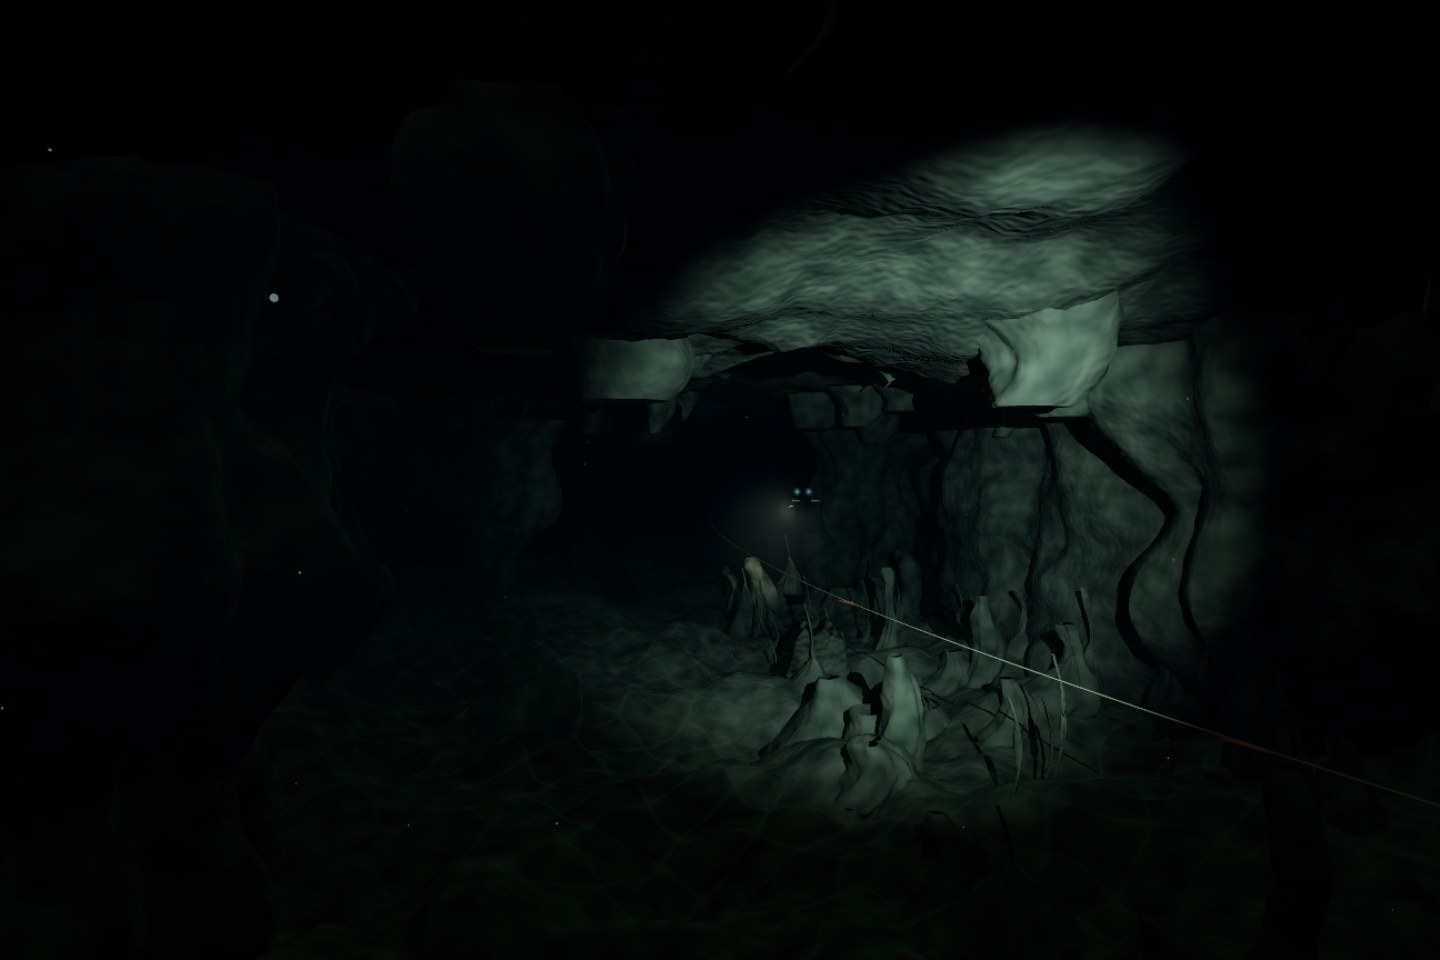
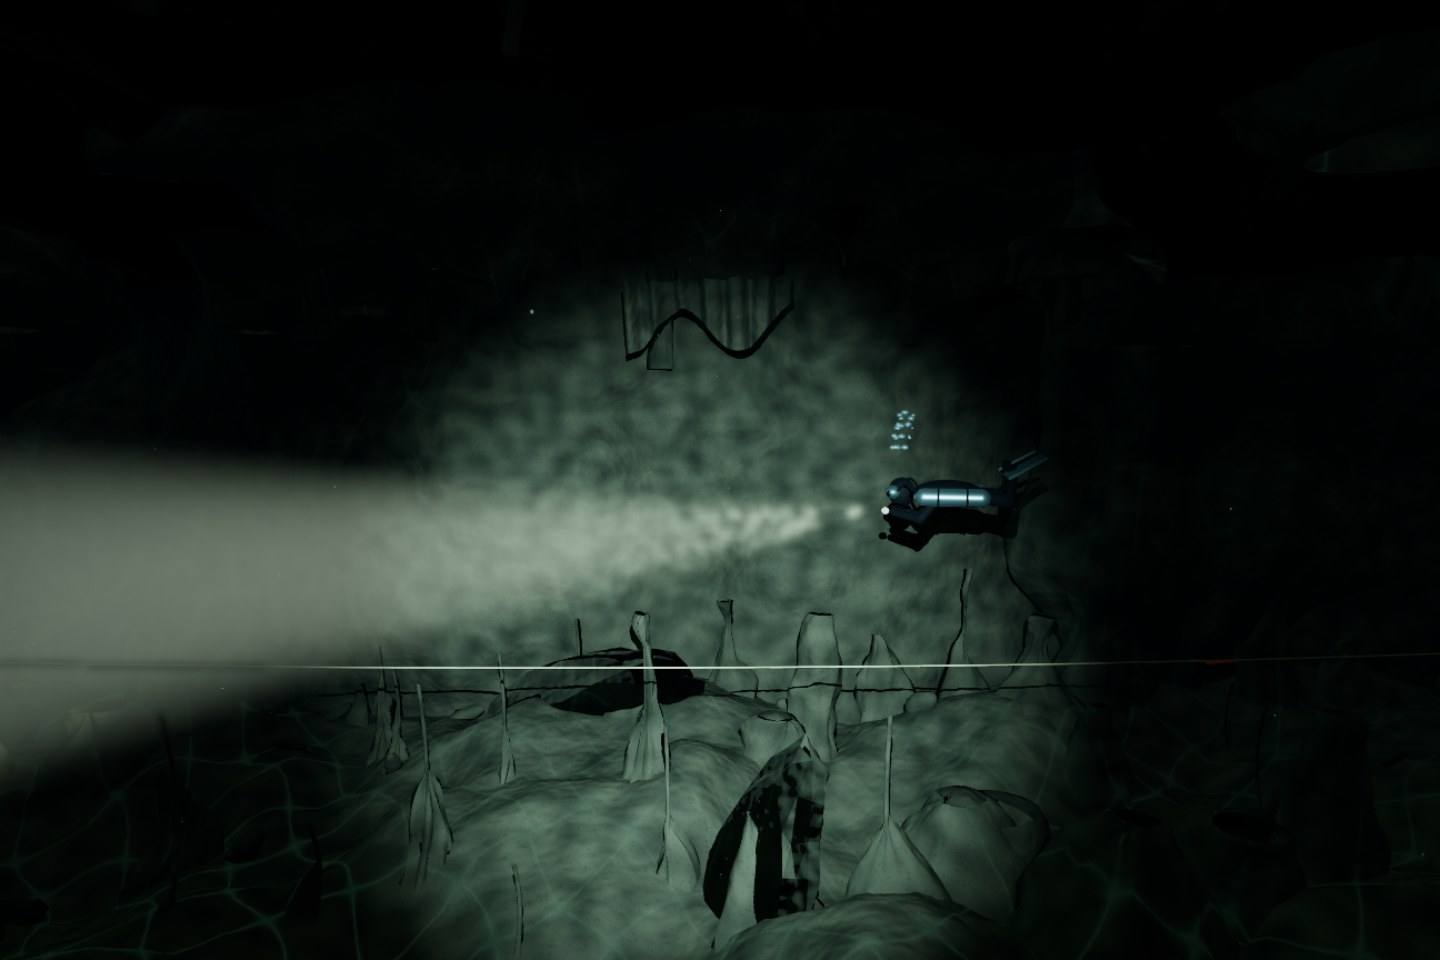
Track a sidemount diver with frog kicks and rising breath bubbles

diff --git a/web/cave-scene.js b/web/cave-scene.js
@@ -13,7 +13,8 @@ export function createCave(renderer) {
   const grain=mx_noise_float(positionWorld.mul(1.6)).mul(.5).add(.5);
   rock.colorNode=mix(vec3(.065,.075,.055),vec3(.34,.32,.23),grain);
   const strata=sin(positionWorld.y.mul(13).add(mx_noise_float(positionWorld.mul(.8)).mul(5))).mul(.035).add(.965);
-  rock.colorNode=rock.colorNode.mul(strata);
+  const pores=mx_noise_float(positionWorld.mul(19)).smoothstep(.15,.65).mul(.18).oneMinus();
+  rock.colorNode=rock.colorNode.mul(strata).mul(pores);
   const detail=positionWorld.mul(4.5);
   const h=mx_noise_float(detail);
   const gradient=vec3(mx_noise_float(detail.add(vec3(.06,0,0))).sub(h),mx_noise_float(detail.add(vec3(0,.06,0))).sub(h),mx_noise_float(detail.add(vec3(0,0,.06))).sub(h)).mul(1.6);
@@ -54,6 +55,20 @@ export function createCave(renderer) {
     for(let k=0;k<p.count;k++){const a=p.getX(k),b=p.getY(k),c=p.getZ(k),r=1+noise(a*3+i,b*3,c*3)*.2;p.setXYZ(k,a*r,b*r,c*r);}g.computeVertexNormals();
     const b=mesh(g);b.position.set(x,floorHeight(x,z),z);b.scale.set(1+(i%4),.6+(i%3)*.6,1.2+(i%5)*.4);b.rotation.set(i*.1,i*1.9,i*.3);
   }
+  // Thin folded flowstone curtains and mineral ledges add detail at several scales.
+  for(let i=0;i<16;i++){
+    const z=7-i*4.2,side=i%2?1:-1;
+    mesh(geometry(surface(64,18,(u,v)=>{
+      const depth=z-u*3.8,fold=Math.sin(u*38+i)*.22+Math.sin(u*83)*.065;
+      return [side*(11+fold+v*.65),4.8-v*(1.1+Math.sin(u*9+i)*.5)+geology(side*11,4,depth)*.25,depth];
+    })));
+  }
+  const rubble=new THREE.InstancedMesh(new THREE.IcosahedronGeometry(1,1),rock,160),rubblePose=new THREE.Object3D();
+  for(let i=0;i<160;i++){
+    const x=Math.sin(i*13.7)*17,z=18-(i*3.73)%95;
+    rubblePose.position.set(x,floorHeight(x,z)+.08,z);rubblePose.scale.set(.12+(i%7)*.09,.07+(i%4)*.08,.15+(i%6)*.11);rubblePose.rotation.set(i*.6,i*1.3,i*.2);rubblePose.updateMatrix();rubble.setMatrixAt(i,rubblePose.matrix);
+  }
+  rubble.castShadow=rubble.receiveShadow=true;scene.add(rubble);
   const ambient=new THREE.HemisphereLight(0x8fae9c,0x010504,.38);scene.add(ambient);
   const sun=new THREE.SpotLight(0xbce8eb,420,110,.43,.65,1.5);
   sun.position.set(3,3,18);sun.target.position.set(8,0,-18);sun.castShadow=true;sun.shadow.mapSize.set(2048,2048);sun.shadow.bias=-.0003;sun.shadow.normalBias=.12;sun.shadow.camera.near=1;sun.shadow.camera.far=85;scene.add(sun,sun.target);
@@ -62,7 +77,7 @@ export function createCave(renderer) {
   waterMaterial.positionNode=positionLocal.add(vec3(0,0,sin(positionLocal.x.mul(.7).add(clock.mul(.35))).mul(cos(positionLocal.y.mul(.5).sub(clock.mul(.25)))).mul(.17)));
   const water=mesh(new THREE.PlaneGeometry(80,100,80,100),waterMaterial);water.rotation.x=-Math.PI/2;water.position.set(0,19,-23);water.castShadow=false;water.visible=false;
   // A fully modelled diver: body, mask, twin cylinders, hoses, limbs and fins.
-  const diver=new THREE.Group();diver.position.set(6.2,.3,-8);diver.rotation.y=-Math.PI/2;scene.add(diver);
+  const diver=new THREE.Group();diver.position.set(6.2,.3,-8);diver.rotation.y=-Math.PI/2;diver.name="swimming-diver";scene.add(diver);
   const suit=new THREE.MeshStandardMaterial({color:0x09131a,roughness:.72});
   const metal=new THREE.MeshStandardMaterial({color:0x8ea8ad,metalness:.75,roughness:.3});
   const accent=new THREE.MeshStandardMaterial({color:0x52666c,roughness:.6});
@@ -70,14 +85,55 @@ export function createCave(renderer) {
   function limb(a,b,r,material=suit){const A=new THREE.Vector3(...a),B=new THREE.Vector3(...b);const m=mesh(new THREE.CapsuleGeometry(r,A.distanceTo(B),6,12),material,diver);m.position.copy(A).add(B).multiplyScalar(.5);m.quaternion.setFromUnitVectors(new THREE.Vector3(0,1,0),B.sub(A).normalize());return m;}
   ellipsoid([0,0,0],[.58,.23,.31]);ellipsoid([-.73,.02,0],[.22,.24,.23]);
   ellipsoid([-.86,.03,.15],[.13,.11,.16],metal);ellipsoid([-.91,.02,.18],[.06,.075,.125],new THREE.MeshStandardMaterial({color:0x163843,metalness:.7,roughness:.1}));
-  for(const z of [-.2,.2]){
-    limb([-.37,.34,z],[.46,.34,z],.13,metal);limb([-.2,-.12,z],[ -.43,-.39,z*1.6],.075);limb([-.43,-.39,z*1.6],[-.85,-.28,z*1.6],.06);
-    limb([.42,0,z],[.97,-.16,z*1.2],.12);limb([.97,-.16,z*1.2],[1.3,.04,z*1.45],.08);
+  // Sidemount cylinders hang beside the torso, with independent valves and hoses.
+  for(const z of [-.43,.43]){
+    const tank=limb([-.36,-.02,z],[.51,-.02,z],.145,metal);tank.name=z<0?'sidemount-left':'sidemount-right';
+    limb([-.47,-.02,z],[-.38,-.02,z],.06,accent);
+    for(const x of [-.14,.3]){const band=mesh(new THREE.TorusGeometry(.148,.018,6,20),suit,diver);band.rotation.y=Math.PI/2;band.position.set(x,-.02,z);}
+    limb([-.2,-.12,z*.5],[-.43,-.39,z*.75],.075);limb([-.43,-.39,z*.75],[-.85,-.28,z*.75],.06);
+    const hose=new THREE.CatmullRomCurve3([new THREE.Vector3(-.43,-.02,z),new THREE.Vector3(-.6,.2,z*1.1),new THREE.Vector3(-.88,-.05,.12)]);
+    mesh(new THREE.TubeGeometry(hose,24,.023,6,false),suit,diver);
   }
-  const fins=[];
-  for(const z of [-.32,.32]){const fin=mesh(new THREE.BoxGeometry(.63,.045,.26,3,1,3),accent,diver);fin.position.set(1.6,.04,z);fin.rotation.z=.08;fins.push(fin);}
-  const hose=new THREE.CatmullRomCurve3([new THREE.Vector3(.25,.4,.28),new THREE.Vector3(-.35,.62,.4),new THREE.Vector3(-.82,-.01,.24)]);
-  mesh(new THREE.TubeGeometry(hose,30,.032,8,false),suit,diver);
+  const legs=[];
+  for(const side of [-1,1]){
+    const thigh=mesh(new THREE.CapsuleGeometry(.115,1,6,12),suit,diver);
+    const shin=mesh(new THREE.CapsuleGeometry(.08,1,6,12),suit,diver);
+    const fin=mesh(new THREE.BoxGeometry(.65,.045,.28,3,1,3),accent,diver);
+    thigh.name=`thigh-${side}`;shin.name=`shin-${side}`;fin.name=`fin-${side}`;legs.push({side,thigh,shin,fin});
+  }
+  const up=new THREE.Vector3(0,1,0);
+  function segment(object,a,b){const delta=b.clone().sub(a);object.position.copy(a).add(b).multiplyScalar(.5);object.scale.y=delta.length();object.quaternion.setFromUnitVectors(up,delta.normalize());}
+  // A slow recovery, paired outward sweep, then a long still glide.
+  function kick(time){
+    const phase=(time%5.8)/5.8;
+    const recover=phase<.23?Math.sin(phase/.23*Math.PI/2):phase<.48?Math.cos((phase-.23)/.25*Math.PI/2):0;
+    const spread=phase<.23?Math.sin(phase/.23*Math.PI/2)*.35:phase<.48?Math.sin((phase-.23)/.25*Math.PI)*.5+.35*(1-(phase-.23)/.25):0;
+    for(const {side,thigh,shin,fin} of legs){
+      const hip=new THREE.Vector3(.4,0,side*.18),knee=new THREE.Vector3(.94,-.06,side*(.2+spread*.5));
+      const ankle=new THREE.Vector3(1.43-recover*.48,.02+recover*.45,side*(.23+spread));
+      segment(thigh,hip,knee);segment(shin,knee,ankle);
+      fin.position.copy(ankle).add(new THREE.Vector3(.28-recover*.1,.03,side*spread*.18));
+      fin.rotation.set(side*spread*.4,side*spread*.7,recover*.48);
+    }
+  }
+  // Bubbles are emitted in short breath packets and keep their world positions.
+  const bubbleMaterial=new THREE.MeshStandardMaterial({color:0xc6e4e8,metalness:.65,roughness:.12,transparent:true,opacity:.48,depthWrite:false});
+  const bubbles=new THREE.InstancedMesh(new THREE.SphereGeometry(1,10,8),bubbleMaterial,36);bubbles.name='exhaled-bubbles';bubbles.frustumCulled=false;scene.add(bubbles);
+  const bubblePose=new THREE.Object3D();
+  function swimPosition(t){const phase=t*.018+.55;return new THREE.Vector3(4+Math.sin(phase)*2,.3+Math.sin(t*.45)*.04,-25+Math.cos(phase)*16);}
+  function swimHeading(t){const phase=t*.018+.55;return Math.atan2(-16*Math.sin(phase),-2*Math.cos(phase));}
+  function updateBubbles(time){
+    for(let i=0;i<36;i++){
+      const delay=(i%12)*.065,cycle=Math.floor((time-delay)/5.5),born=cycle*5.5+delay,age=time-born;
+      if(born<0||age>4.7){bubblePose.scale.setScalar(0);}else{
+        const heading=swimHeading(born),source=new THREE.Vector3(-.88,.12,.12).applyAxisAngle(up,heading).add(swimPosition(born));
+        bubblePose.position.copy(source).add(new THREE.Vector3(Math.sin(i*2.7+age)*.08,age*(.82+(i%3)*.08),Math.sin(i*1.3+age*.6)*.12));
+        const radius=(.022+(i%5)*.009)*(1+age*.09);bubblePose.scale.set(radius,radius*.78,radius);
+      }
+      bubblePose.updateMatrix();bubbles.setMatrixAt(i,bubblePose.matrix);
+    }
+    bubbles.instanceMatrix.needsUpdate=true;
+  }
   const torch=new THREE.SpotLight(0xe0f4da,230,30,.22,.7,1.2);torch.position.set(-.97,-.26,.32);torch.target.position.set(-14,-2,.4);diver.add(torch,torch.target);
   const lamp=ellipsoid([-.97,-.26,.32],[.06,.055,.055],new THREE.MeshBasicMaterial({color:0xe1faff}));
   // Continuous guideline returns toward the camera/entrance (+Z).
@@ -106,10 +162,14 @@ export function createCave(renderer) {
   pipeline.outputNode=scenePass.add(gaussianBlur(lightPass,uniform(.4)).mul(1.1));
   function update(time,x,y,descent,exploreYaw=0,explorePitch=0,zoom=0){
     clock.value=time;const portrait=camera.aspect<.8;
-    camera.position.set(-1+x*2.6+Math.sin(exploreYaw)*11,2-y*1.1+explorePitch*6,20-descent*7+Math.cos(exploreYaw)*11-11-zoom);
-    camera.lookAt(portrait?5.8:2.5,1+y*.45,-15);
-    const swim=time*.035+.7;diver.position.set(4+Math.sin(swim)*1.5,.3+Math.sin(time*.45)*.06,-20+Math.cos(swim)*12);diver.rotation.y=Math.atan2(-12*Math.sin(swim),-1.5*Math.cos(swim));diver.rotation.z=Math.sin(time*.4)*.015;
-    fins.forEach((fin,i)=>fin.rotation.z=.08+Math.sin(time*.7+i*.3)*.07);
+    diver.position.copy(swimPosition(time));diver.rotation.set(0,swimHeading(time),Math.sin(time*.4)*.008);
+    const orbit=diver.rotation.y+exploreYaw;
+    const offset=new THREE.Vector3(x*2.6,1.4-y*.8+explorePitch*4,(portrait?13:15)-descent*2-zoom*.45).applyAxisAngle(up,orbit);
+    camera.position.copy(diver.position).add(offset);
+    const look=new THREE.Vector3(portrait?-.4:-3.8,.15+y*.25,0).applyAxisAngle(up,diver.rotation.y).add(diver.position);
+    camera.lookAt(look);
+    sun.position.copy(camera.position).add(new THREE.Vector3(0,1,0));sun.target.position.copy(diver.position).add(new THREE.Vector3(0,-2,-4));
+    kick(time);updateBubbles(time);
     torch.target.position.y=-2+y*1.5;
   }
   function dispose(){pipeline.dispose();const gs=new Set(),ms=new Set();scene.traverse(o=>{if(o.geometry)gs.add(o.geometry);if(o.material)ms.add(o.material);if(o.shadow)o.shadow.dispose();});gs.forEach(g=>g.dispose());ms.forEach(m=>m.dispose());}

diff --git a/README.md b/README.md
@@ -57,7 +57,7 @@ See [SECURITY.md](SECURITY.md). The site’s HTML escapes content; it does not e
 
 ## Interactive homepage and Engineering map
 
-The homepage renders a complete procedural 3D cavern: floor and low ceiling meshes, displaced limestone walls, columns, stalactites, boulders, water and a diver model with twin cylinders, mask, hoses, limbs and fins. Its meshes contain approximately 485,000 triangles. The limestone, palette and lighting are informed by Joshua’s supplied cave photograph; see [reference notes](docs/cave-reference.md). There is no image or depth-map projection in the scene. The small static poster is an actual frame of this model, used while loading or if graphics are unavailable.
+The homepage renders a complete procedural 3D cavern: floor and low ceiling meshes, displaced limestone walls, columns, stalactites, boulders, water and a tracked diver model with two sidemount cylinders, mask, independent hoses, articulated frog kicks and periodic rising bubbles. Its meshes contain approximately 530,000 triangles. The limestone, palette and lighting are informed by Joshua’s supplied cave photograph; see [reference notes](docs/cave-reference.md). There is no image or depth-map projection in the scene. The small static poster is an actual frame of this model, used while loading or if graphics are unavailable.
 
 Three.js 0.186.1 renders the same scene through WebGPU or WebGL2. World-space procedural materials, animated caustics, shadow maps and a downsampled volumetric-lighting pass provide underwater lighting. Normal cursor movement translates the camera, and scrolling moves it forward. **Explore cave** hides the headline and enables drag to look around, scroll to move, arrow-key navigation, + / − for distance and Escape to return. Normal page scrolling and links remain unchanged outside exploration.
 

diff --git a/docs/cave-reference.md b/docs/cave-reference.md
@@ -2,7 +2,7 @@
 
 Primary reference: Joshua’s attached cave-diving photograph (DF6FCEE3-901C-4756-BC22-B873EAE9A2A8). The image shows a low limestone roof, dense irregular formations, a narrow dark passage and a continuous guideline. The image itself is not shipped or used as a scene texture.
 
-The procedural scene follows those features, with a diver facing into the passage and swimming a slow continuous circuit. The guideline runs from the near entrance into the passage. Orange directional markers point along the line toward the entrance (+Z), opposite the initial inward swimming direction.
+The procedural scene follows those features, with a diver facing into the passage and swimming a slow continuous circuit with paired frog kicks and glide phases. The camera tracks alongside at a steady distance, keeping the diver horizontal in view. Two sidemount tanks sit beside the torso; exhalation packets rise from the regulator in world space. The guideline runs from the near entrance into the passage. Orange directional markers point along the line toward the entrance (+Z), opposite the initial inward swimming direction.
 
 Marker reference: [TDI directional and non-directional markers](https://www.tdisdi.com/tdi-diver-news/cave-diving-directional-and-non-directional-markers-101/). This is a visual scene, not a surveyed cave route or navigation resource.
 
